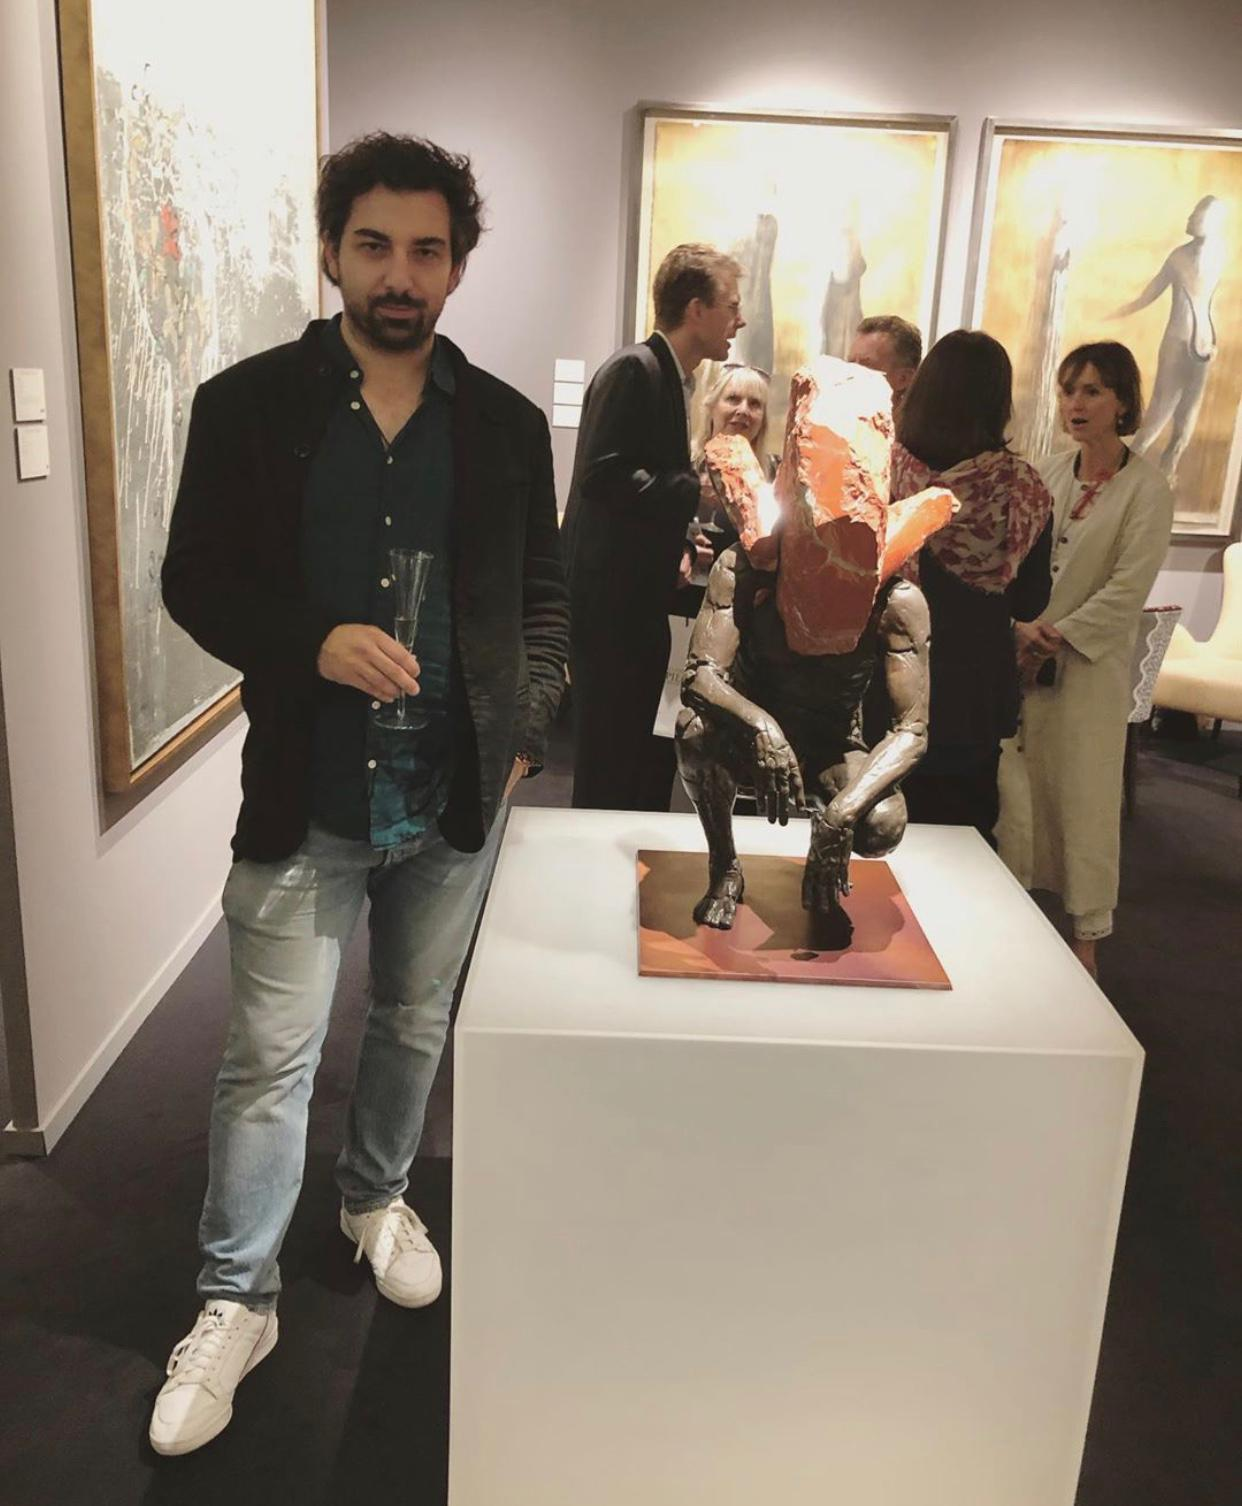
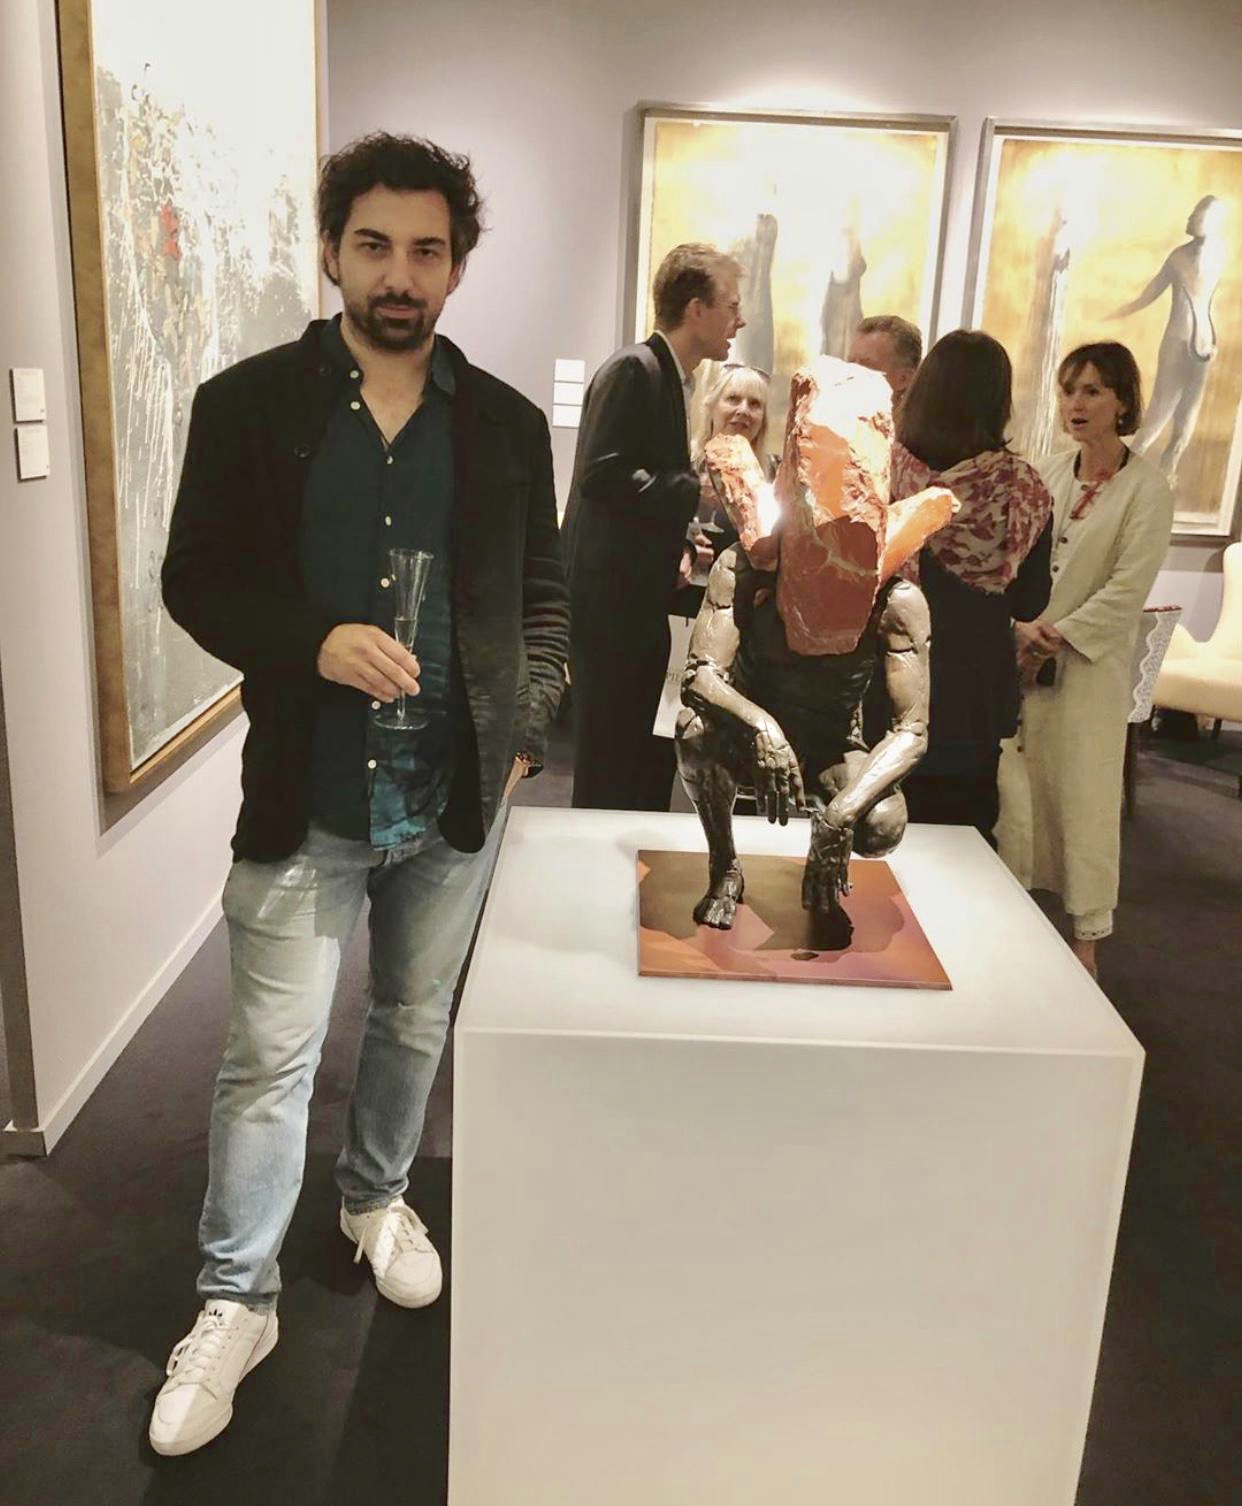
Foto update

diff --git a/index.html b/index.html
@@ -62,7 +62,7 @@
               </p>
             </td>
             <td style="padding:2.5%;width:40%;max-width:40%">
-              <a href="images/ME_UFO.jpg"><img style="width:100%;max-width:100%" alt="profile photo" src="images/ME_UFO.jpg" class="hoverZoomLink"></a>
+              <a href="images/ME_STATUE.jpg"><img style="width:100%;max-width:100%" alt="profile photo" src="images/ME_UFO.jpg" class="hoverZoomLink"></a>
             </td>
           </tr>
         </tbody></table>
